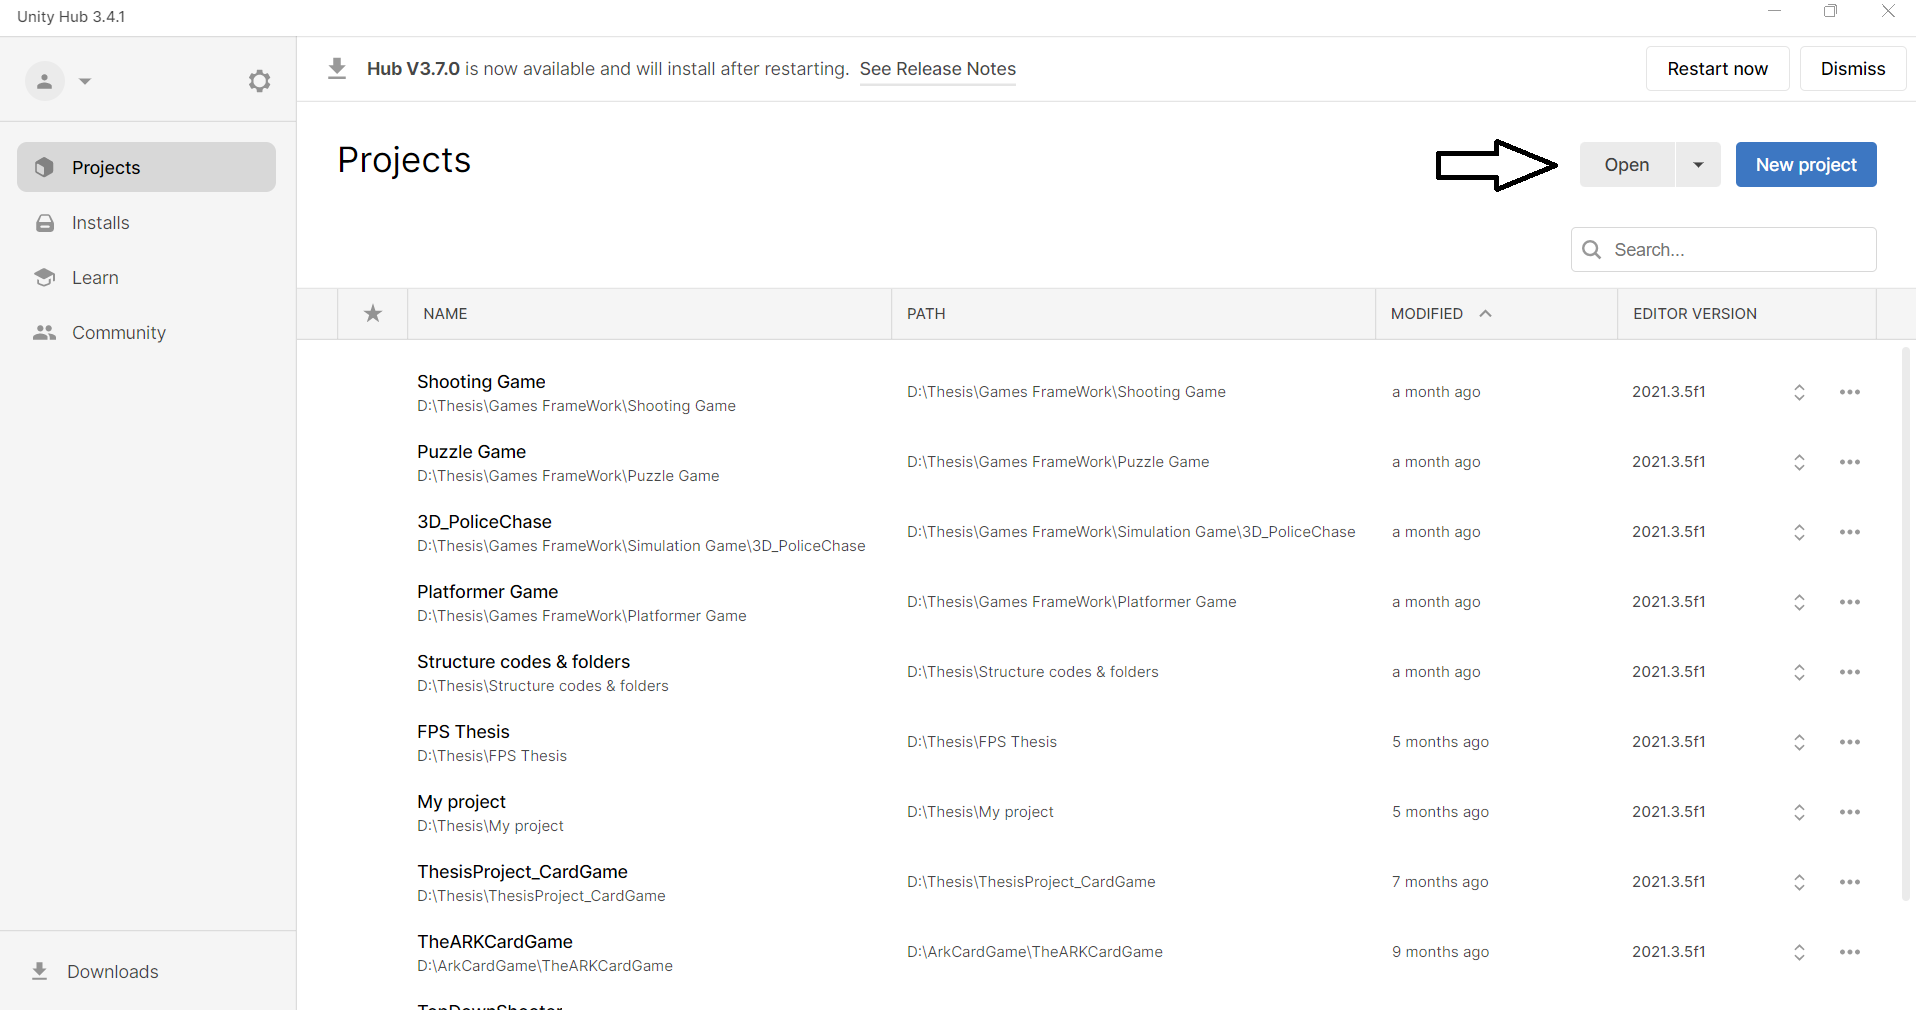
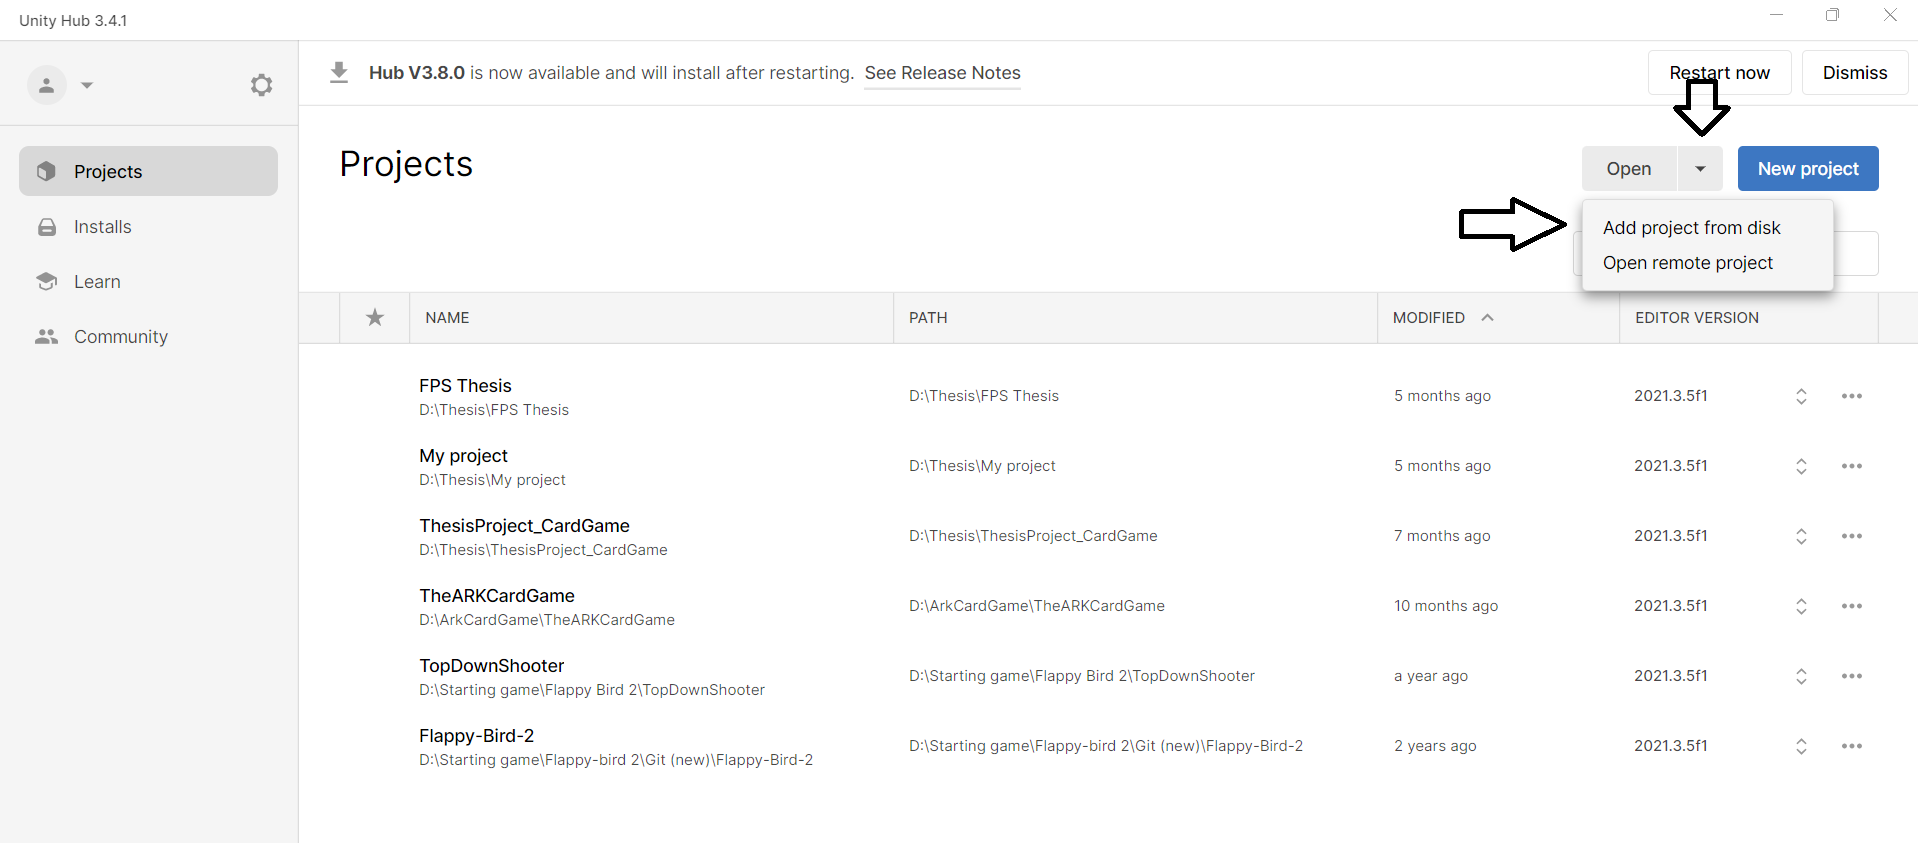
update

diff --git a/README.md b/README.md
@@ -27,18 +27,26 @@
 
 ## 2. Open Unity Project
 
-* On the left-hand menu, select `Projects` then click on the blue `Grey` button on the right, and choose the file.
+* On the left-hand menu, select `Projects` then click the arrow next to the grey `Open` button on the right, and choose `Add project from disk`and cho the file.
 
 [![.img/step2.png](.img/step2.png)](#nolink)
 
 
-* After your project is created, you will be presented with the working environment
+* After your project is opened, you will be presented with the working environment
+
+[![.img/step2b.png](.img/step2b.png)](#nolink)
 
 **We must configure Unity use VS Studio as the external code editor**
 
 * Go to menu item `Edit` → `Preferences...` → `External Tools`
 * Change `External Script Editor` to option VS Studio.
 
-[![.img/step2b.png](.img/step2b.png)](#nolink)
+[![.img/step2c.png](.img/step2c.png)](#nolink)
 
+To run the project , at the working environment, chose the play icon at the top of the screen 
 
+[![.img/step2d.png](.img/step2d.png)](#nolink)
+
+To check and work with the code , double click to any script file(The script file will always stay at the Script folder) 
+
+[![.img/step2e.png](.img/step2e.png)](#nolink)
